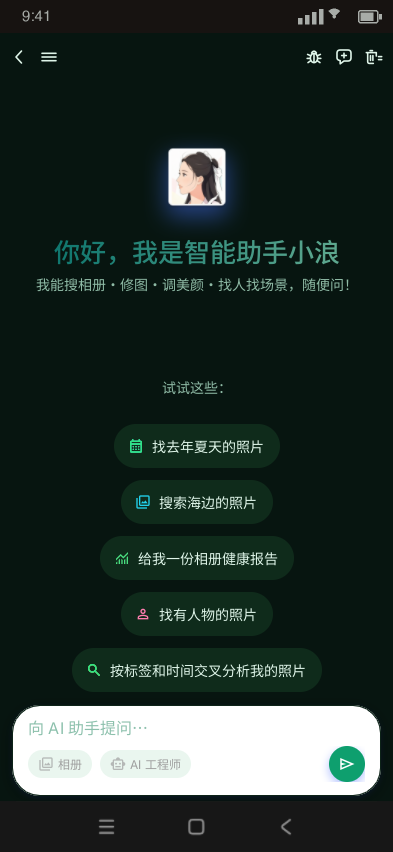
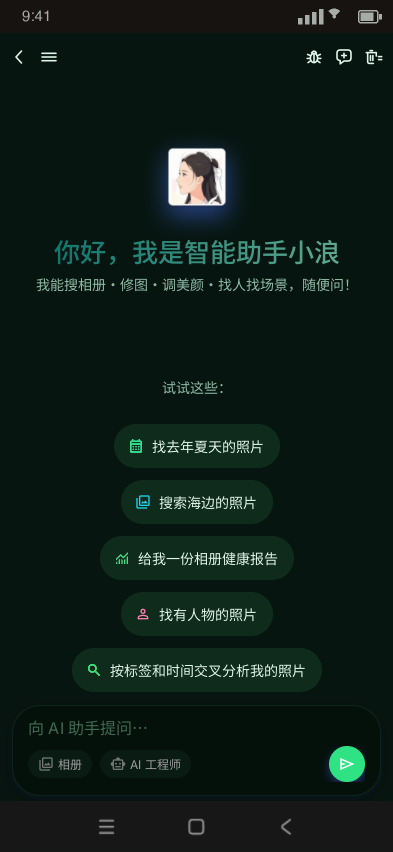
fix(design): store01 三帧输入框跟随主题——实例内部覆盖回填 token 五件套
chat/store01-welcome/conversation/insight 的 InputBarOuter 实例(392:1/2/3)
内部 InputCard/InputPlaceholder/双胶囊/SendButton 持 Light 覆盖（实例节点
fills=null，结构读取不可见），dark 内容上漂浅色输入框。

- 分号子路径按母版内部 id 回填：387:2→$2:154、387:3→$2:152、
  387:8/9→$2:155、387:7→$2:130（15 ops），渲染验证三帧输入卡=DARK ✓
- 审计工具新增 InputBarOuter 实例收集 + 输入卡采样带(y690-770) +
  --fix 五件套回填路径；实例覆盖 82→89
- 扫描陷阱记档：实例名不统一（InputBarOuter/input_bar），按
  mainComponent id 扫比按名扫可靠
- 全画布审计通过（2 照片 hero 页 MID 为已豁免假阳性）；快照入库

Changed region(s): [[0.0305, 0.8239, 0.9771, 0.946]]

diff --git a/scripts/ardot-chrome-audit.py b/scripts/ardot-chrome-audit.py
@@ -112,8 +112,10 @@ def collect_instances(cv):
                 if fr.get("type") != "FRAME":
                     continue
                 for c in fr.get("children") or []:
-                    if c.get("type") == "INSTANCE" and c.get("name") in (
-                            "status_bar", "system_nav_bar", "floating_tab"):
+                    if c.get("type") == "INSTANCE" and (
+                            c.get("name") in ("status_bar", "system_nav_bar",
+                                              "floating_tab", "InputBarOuter")
+                            or "input_bar" in str(c.get("name", "")).lower()):
                         out.append({"page": pid, "frame": fr["id"],
                                     "frameName": fr.get("name"),
                                     "inst": c["id"], "kind": c.get("name")})
@@ -136,6 +138,8 @@ def classify(png_path, kind):
         box = (0, int(801 * h / 852), w, h)
     elif kind == "floating_tab":   # 300x56 @ (46,734)
         box = (int(0.13 * w), int(0.868 * h), int(0.86 * w), int(0.922 * h))
+    elif kind == "InputBarOuter":  # 输入卡 y690-770 全宽
+        box = (0, int(0.81 * h), w, int(0.905 * h))
     else:  # content
         box = (0, int(38 * h / 852), w, int(70 * h / 852))
     v = float(np.asarray(im.crop(box), dtype=float).mean())
@@ -191,6 +195,13 @@ def audit(cv, fix=False):
                 if it["kind"] == "floating_tab":
                     # 悬浮导航错色 = 字面量残留，回填母版 token
                     ops.append(f'U("{it["inst"]}", {{fills: ["$2:156"]}})')
+                    continue
+                if it["kind"] == "InputBarOuter":
+                    # 输入框错色 = 实例内部覆盖，分号子路径回填母版五件套 token
+                    for lyr, tok in (("387:2", "$2:154"), ("387:3", "$2:152"),
+                                     ("387:8", "$2:155"), ("387:9", "$2:155"),
+                                     ("387:7", "$2:130")):
+                        ops.append(f'U("{it["inst"]};{lyr}", {{fills: ["{tok}"]}})')
                     continue
                 layers = STATUS_LAYERS if it["kind"] == "status_bar" else NAV_LAYERS
                 dark_vis = "true" if expect == "DARK" else "false"
